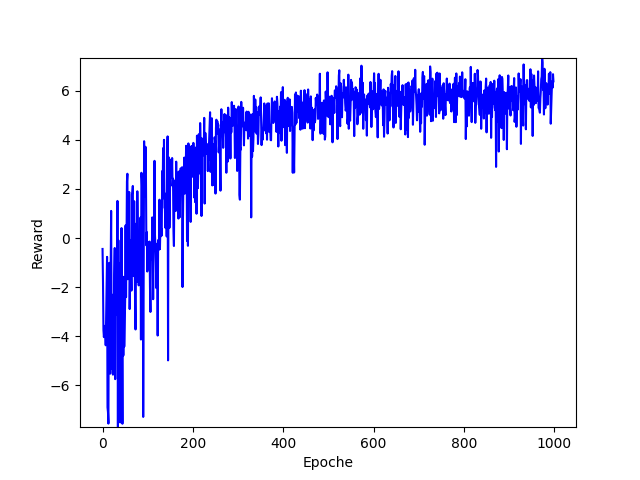
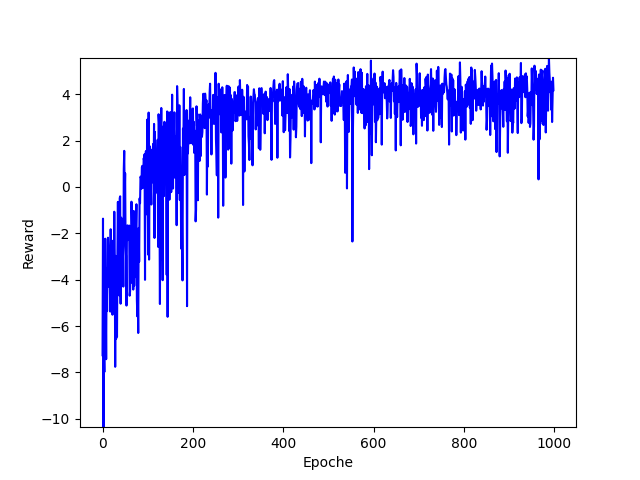
this model bad ..hmm..why?

diff --git a/controllers/No_obstacles_SENSOR_8 _Train200000/No_obstacles_SENSOR_8 _Train200000.py b/controllers/No_obstacles_SENSOR_8 _Train200000/No_obstacles_SENSOR_8 _Train200000.py
@@ -136,16 +136,20 @@ def Reward(state,next_state):
         if next_state[i * INPUT_ONE_FRAME] < ARRIVE_STANDARD:
             total += 100
         else:
-            total -= 0.1
+            total -= 0.01
         for j in range(INPUT_SENSOR):            
             if COLLISION_R < next_state[i * INPUT_ONE_FRAME + 2 + j]:
                 total -= 200
             elif COLLISION_R - 1 < next_state[i * INPUT_ONE_FRAME + 2 + j]:
                 total -= 100
+            elif COLLISION_R - 1.5 < next_state[i * INPUT_ONE_FRAME + 2 + j]:
+                total -= 50
             elif COLLISION_R - 2 < next_state[i * INPUT_ONE_FRAME + 2 + j]:
                 total -= 10
+            elif COLLISION_R - 2.5 < next_state[i * INPUT_ONE_FRAME + 2 + j]:
+                total -= 3
             elif COLLISION_R - 3 < next_state[i * INPUT_ONE_FRAME + 2 + j]:
-                total -= 5
+                total -= 1
             
                 break
     # Target Approaching

diff --git a/controllers/CL_TEST_8_action 5/CL_TEST_8_action 5.py b/controllers/CL_TEST_8_action 5/CL_TEST_8_action 5.py
@@ -1,4 +1,4 @@
-CL_MODEL = "Curriculum Yes new model_1_0"
+CL_MODEL = "Curriculum No ob train 5000_2"
 CL_KIND = f"{CL_MODEL}_Test_heterogeineous_pipe_1"
 TEST_COUNT = 100
 INPUT_SENSOR = 8
@@ -133,7 +133,7 @@ def rotated_point(orientation):
     return heading_degrees
 # 2-3. select action 
 def Action(action):
-
+    """
     # Go straight
     if action == 0:
         left_motor.setVelocity(MAX_SPEED)
@@ -178,7 +178,7 @@ def Action(action):
     elif action == 5:
         left_motor.setVelocity(MAX_SPEED)
         right_motor.setVelocity(-MAX_SPEED)
-    """
+
         
 # 0.3925
 # 2-4. state get
